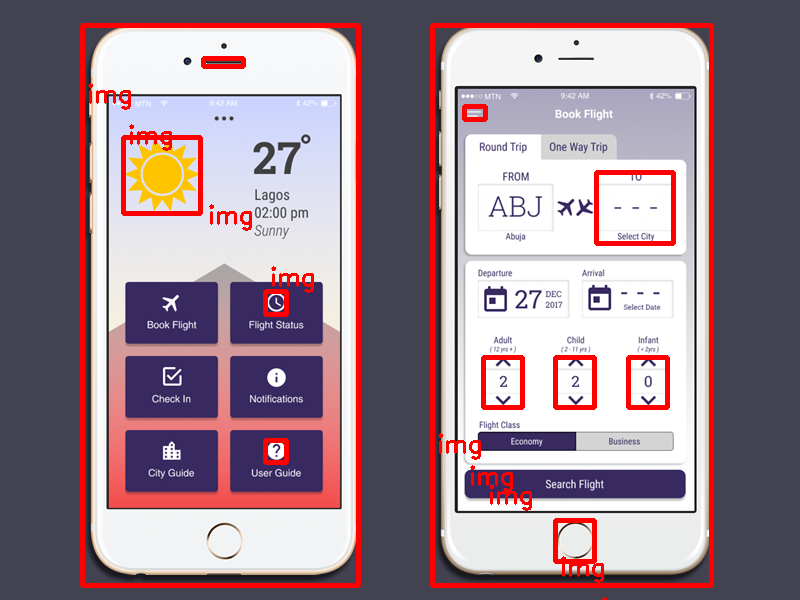
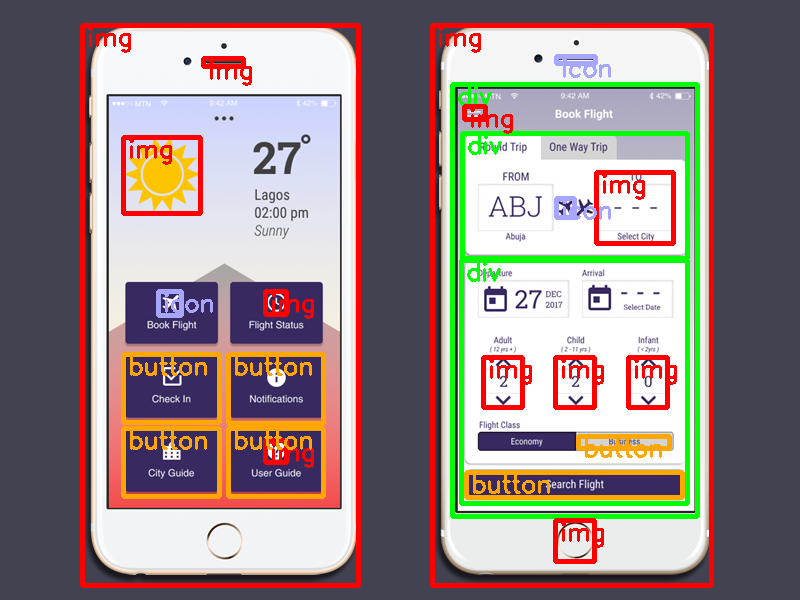
complete version1

diff --git a/code/IMG2CODE/uied/lib/CONFIG.py b/code/IMG2CODE/uied/lib/CONFIG.py
@@ -41,7 +41,7 @@ class Config:
         self.OCR_PADDING = 5
         self.OCR_MIN_WORD_AREA = 0.45
 
-        self.COLOR = {'block': (0, 255, 0), 'img': (0, 0, 255), 'icon': (255, 166, 166), 'input': (255, 166, 0),
+        self.COLOR = {'div': (0, 255, 0), 'img': (0, 0, 255), 'icon': (255, 166, 166), 'input': (255, 166, 0),
                       'text': (77, 77, 255), 'search': (255, 0, 166), 'list': (166, 0, 255), 'select': (166, 166, 166),
                       'button': (0, 166, 255)}
 

diff --git a/code/IMG2CODE/main.py b/code/IMG2CODE/main.py
@@ -35,6 +35,9 @@ def nms(corners_compo_old, compos_class_old, corner_text):
     corner_text = np.array(corner_text)
     for i in range(len(corners_compo_old)):
         if compos_class_old[i] != 'img':
+            if compos_class_old[i] != 'text':
+                corners_compo_refine.append(corners_compo_old[i])
+                compos_class_refine.append(compos_class_old[i])
             continue
 
         a = corners_compo_old[i]
